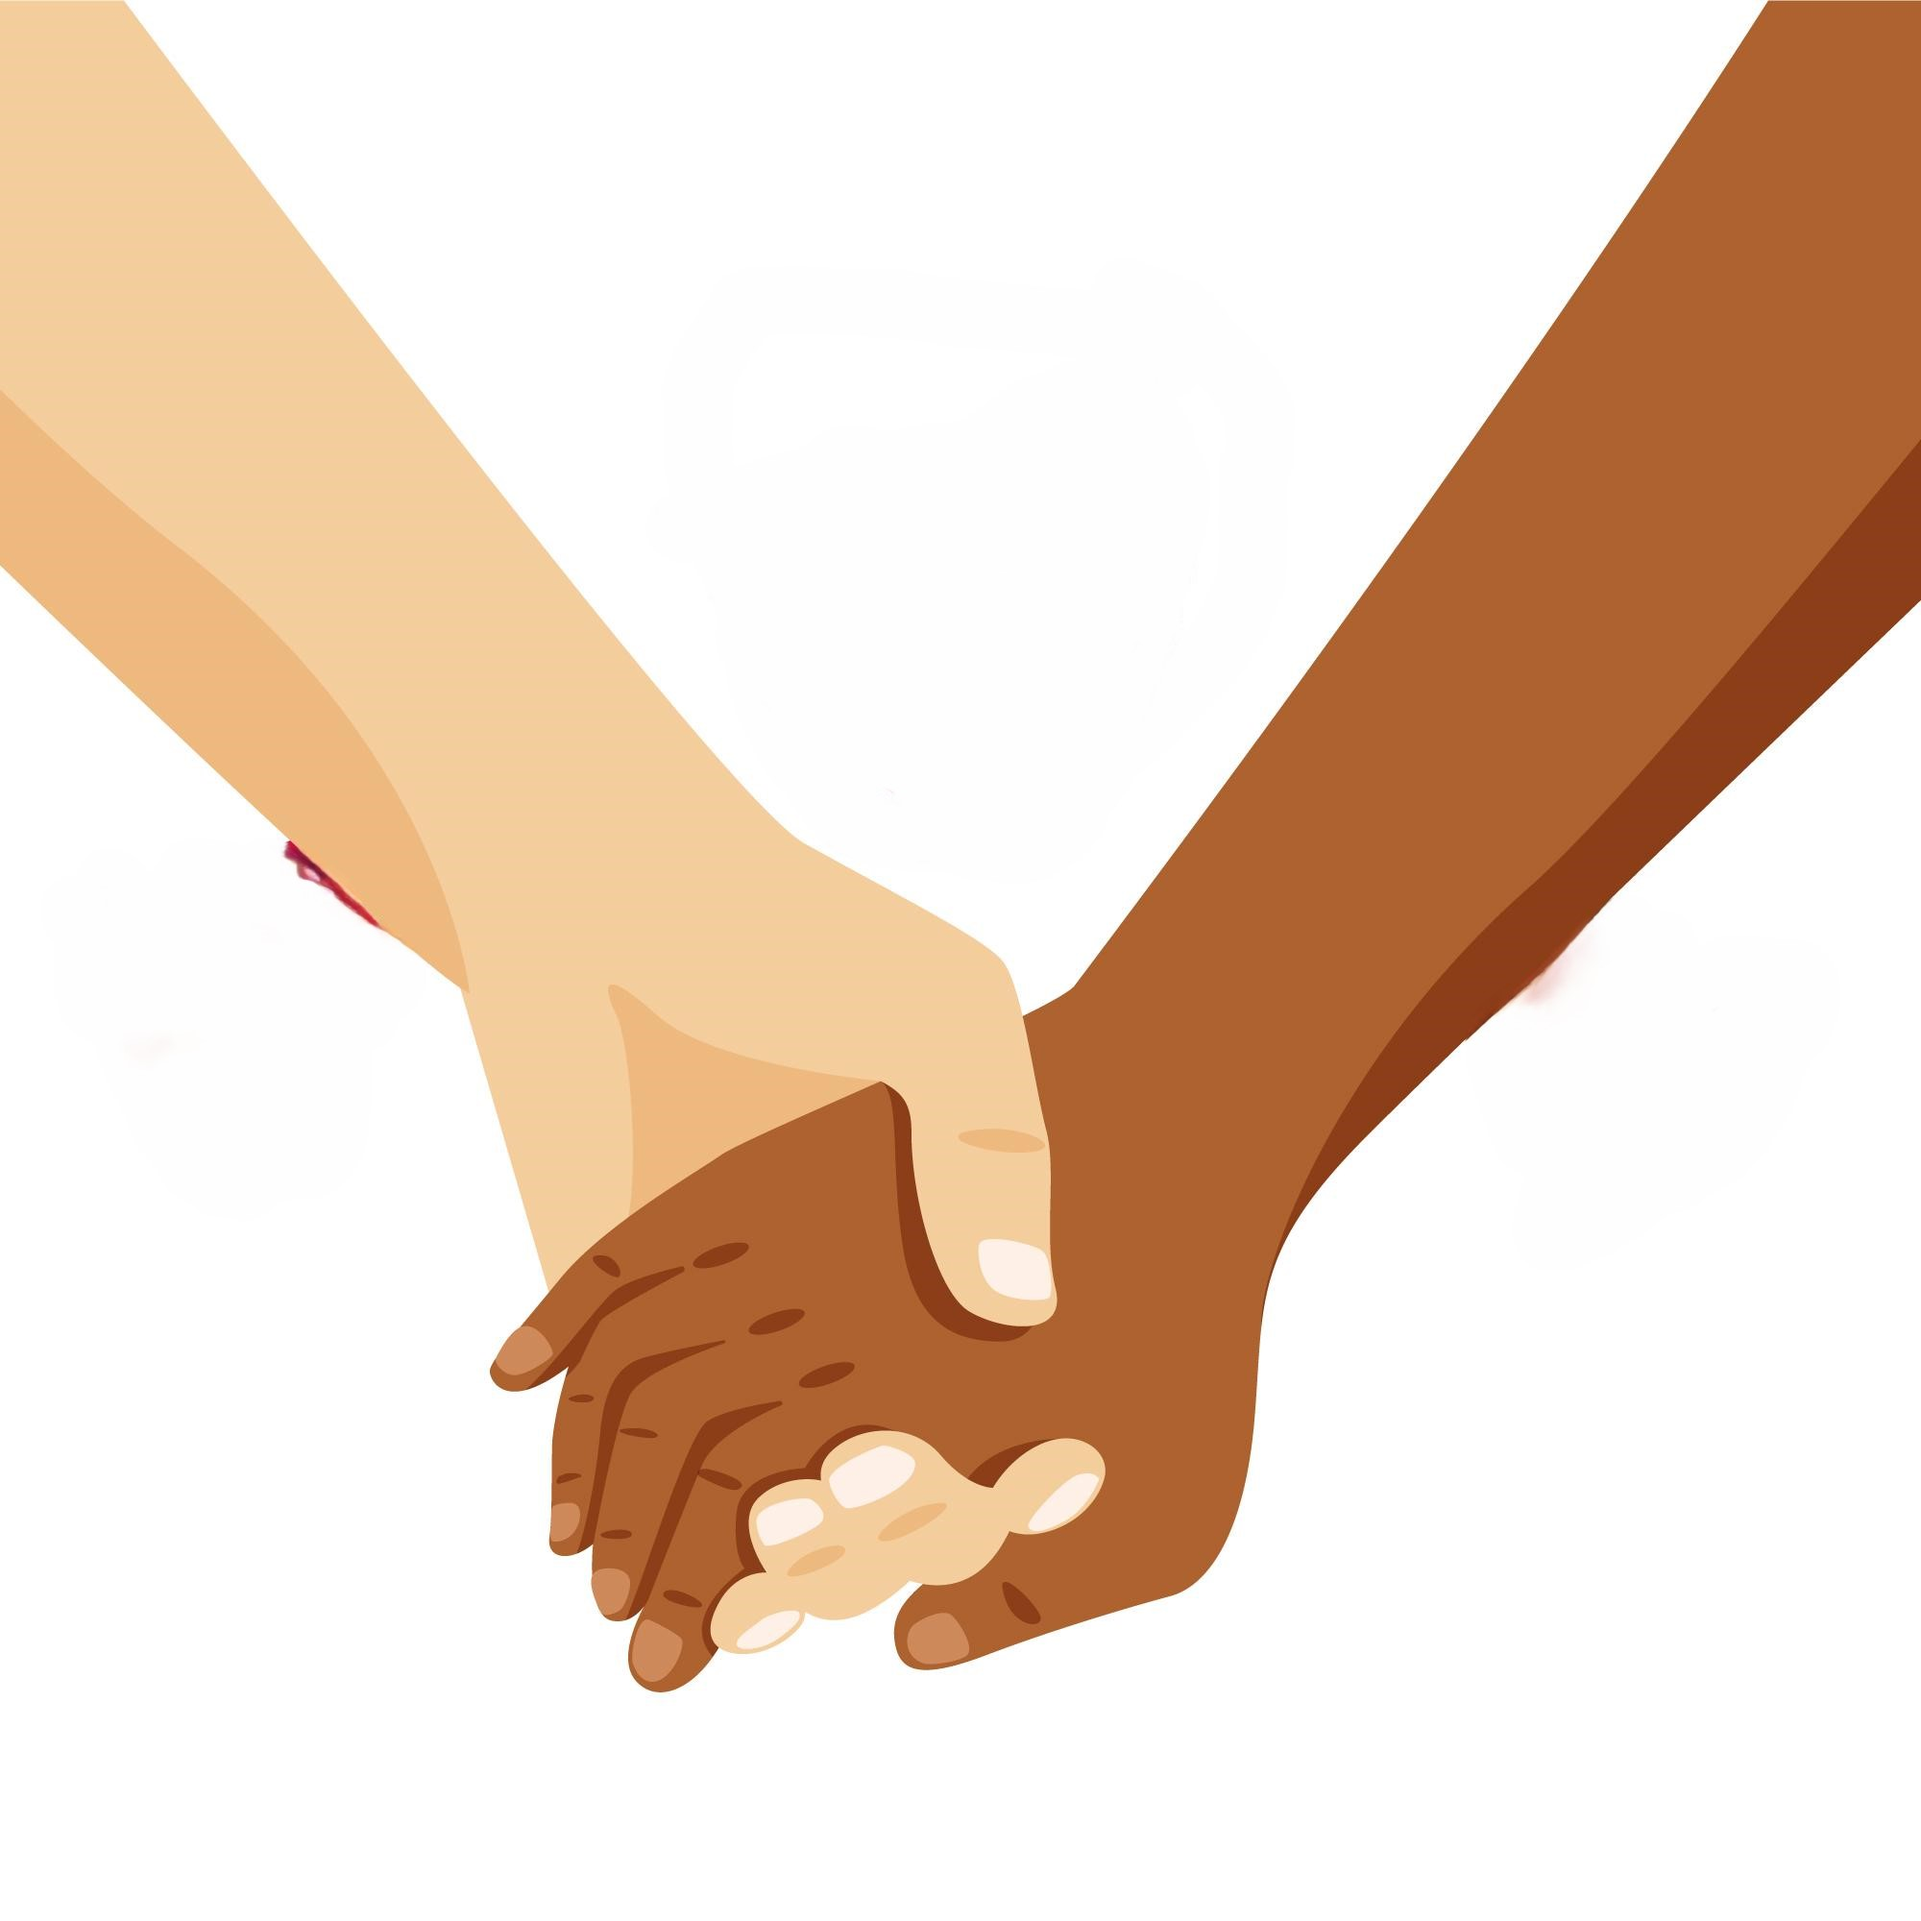
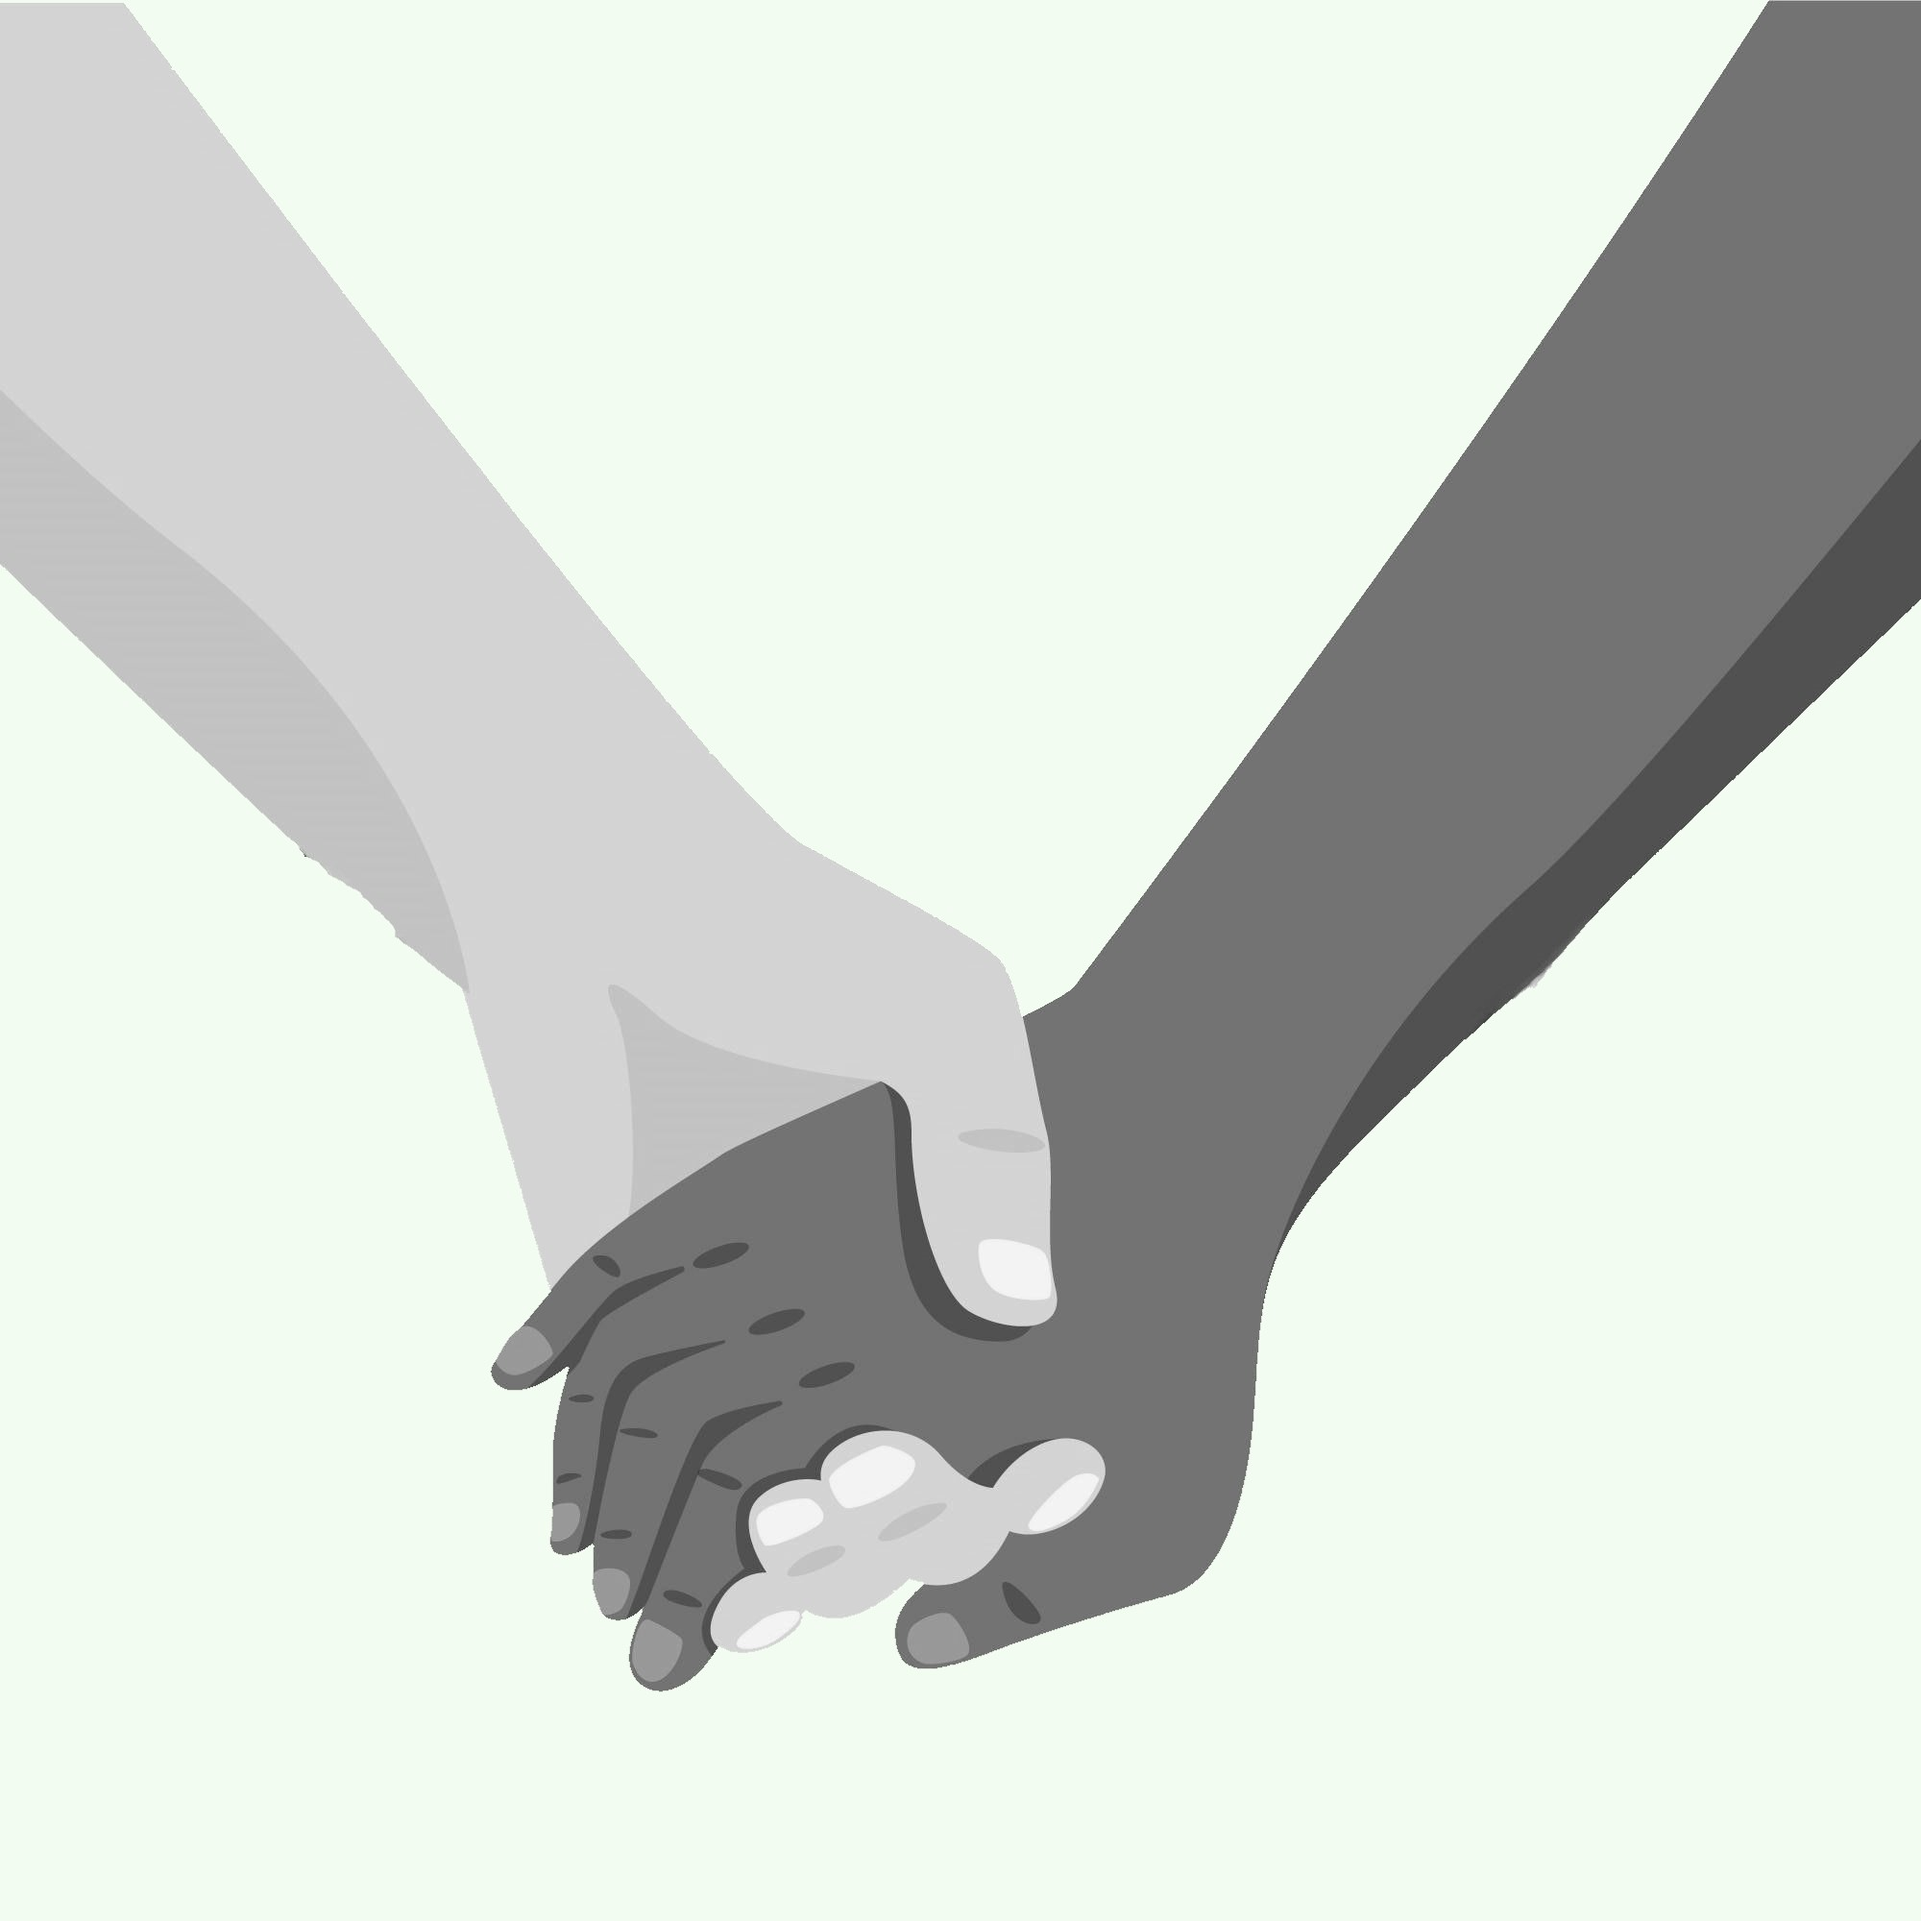
reworked colour scheme

diff --git a/assets/css/style.css b/assets/css/style.css
@@ -25,7 +25,7 @@ $midnight-green: rgba(14, 71, 73, 1); */
     left: 0;
     height: 100%;
     width: 100%;
-    background-color: rgba(255, 161, 161, 0.192);
+    background-color: rgba(179, 182, 227, 0.192);
 }
 
 
@@ -46,7 +46,7 @@ $midnight-green: rgba(14, 71, 73, 1); */
 .btn--help {
     color: rgba(243, 252, 240, 1);
     margin: 10px auto;
-    background-color: rgba(253, 130, 60, 0.8);
+    background-color: rgb(52, 129, 63);
     border-radius: 5px;
     padding: 5px;
     float: right;
@@ -62,7 +62,7 @@ $midnight-green: rgba(14, 71, 73, 1); */
 .btn--help.focus {
     color: rgba(243, 252, 240, 1);
     margin: 10px auto;
-    background-color: rgba(182, 91, 39, 0.8);
+    background-color: rgba(206, 245, 211, 1);
     border-radius: 5px;
     padding: 5px;
     float: right;
@@ -86,7 +86,7 @@ $midnight-green: rgba(14, 71, 73, 1); */
 }
 
 .blue-section-header {
-    background-color: rgb(253, 130, 60);
+    background-color: rgb(179, 182, 227);
     color: rgba(243, 252, 240, 1);
     height: fit-content;
     width: 100%;
@@ -130,7 +130,7 @@ $midnight-green: rgba(14, 71, 73, 1); */
 }
 
 .navbar-bg {
-    background-color: rgb(241, 228, 191);
+    background-color: #D8D5ED;
 }
 
 .navbar-bg a {
@@ -156,9 +156,9 @@ $midnight-green: rgba(14, 71, 73, 1); */
 }
 
 .hero-text {
-    background-color: rgba(252, 252, 240, 0.7);
+    background-color: rgba(241, 255, 232, 0.5);
     text-align: center;
-    border-radius: 5px;
+    border-radius: 15px;
     min-width: 80%;
     margin-left: auto;
     margin-right: auto;
@@ -170,13 +170,12 @@ $midnight-green: rgba(14, 71, 73, 1); */
 }
 
 .jumbotron {
-    height: 600px;
+    height: 85vh;
     width: 100%;
     padding-top: 32px;
     background: url(../images/duy-pham-Cecb0_8Hx-o-unsplash.jpg) no-repeat center center/cover;
     position: relative;
     margin-bottom: 0px;
-    min-height: 80vh;
 }
 
 
@@ -187,17 +186,17 @@ $midnight-green: rgba(14, 71, 73, 1); */
 
 .find-out {
     display: inline-block;
-    color: rgba(243, 252, 240, 1);
+    color: rgba(46, 31, 39, 1);
+    border: 1px solid rgba(46, 31, 39, 1);
     margin-left: 10px;
-    background-color: rgba(253, 130, 60, 0.8);
+    background-color: rgba(241, 255, 232, 1);
     border-radius: 5px;
     padding: 5px;
 }
 
 .find-out:hover {
-    color: rgba(46, 134, 171, 1);
-    ;
-    background-color: rgba(243, 252, 240, 0.6);
+    color: rgba(46, 31, 39, 1);
+    background-color: rgba(206, 245, 211, 1);
     text-decoration: none;
 }
 
@@ -205,9 +204,6 @@ $midnight-green: rgba(14, 71, 73, 1); */
 /*--------------- Here to help  */
 
 
-.help-image {
-    position: relative;
-}
 
 .help-image img {
     max-width: 100%;
@@ -240,10 +236,10 @@ $midnight-green: rgba(14, 71, 73, 1); */
 
 
 .help-card {
-    background-color: #FEE7D5;
+    background-color: rgba(243, 252, 240, 1);
     margin: 10px;
     border-radius: 15px;
-    border: 10px solid rgb(218, 162, 9);
+    border: 10px solid rgb(216, 213, 237);
     display: flex;
     flex-wrap: wrap;
     align-items: center;
@@ -333,6 +329,7 @@ $midnight-green: rgba(14, 71, 73, 1); */
 }
 
 
+
 /* .wave-container {  
     height: 40vh;
     background-color: #fad6d6;
@@ -380,18 +377,24 @@ $midnight-green: rgba(14, 71, 73, 1); */
         border: 10px solid rgb(242, 66, 54);
     }
 
+    #crisis-card .btn--help {
+        background-color: rgb(242, 66, 54);
+    }
+
     .nav-link {
         margin: 0 5px;
     }
 
-
+    .btn--help {
+        min-height: 58px;
+    }
 
 
 }
 
 
 
-
+/* 
 @media screen and (min-width:1200px) {
 
     .btn--help {
@@ -399,4 +402,4 @@ $midnight-green: rgba(14, 71, 73, 1); */
         min-width: 205px;
     }
 
-}
+} */

diff --git a/index.html b/index.html
@@ -76,7 +76,7 @@
                         </div>
                         <div class="col-12 col-md-8 col-lg-12 help-text">
                             <h3><i class="fa-solid fa-triangle-exclamation d-md-none help-icon"></i>  Need Help Immediately?</h3>
-                            <br>
+                            <hr>
                             <p>If you're in crisis, there are immediate resources available. Speak with a trained
                                 professional who can offer support, or guide to someone who can, no matter what you’re going through.</p>
                             <a href="https://www.mind.org.uk/information-support/guides-to-support-and-services/crisis-services/getting-help-in-a-crisis/"
@@ -90,11 +90,11 @@
 
                         <div class="col-12 col-md-4 col-lg-12 d-flex justify-content-center align-items-center">
                             <div class="help-image d-none d-md-block "><img src="assets/images/brain.jpg"
-                                    alt="A pair of holding hands"></div>
+                                    alt="A brain"></div>
                         </div>
                         <div class="col-12 col-md-8 col-lg-12 help-text">
                             <h3><i class="fa-solid fa-clipboard-list d-md-none help-icon"></i>  Take a Mental Health Check</h3>
-                            <br>
+                            <hr>
                             <p>Not sure where to start? Try one of our self-assessments to get a better
                                 understanding of
                                 how you’re feeling. These quizzes are confidential and can help guide your next
@@ -109,15 +109,14 @@
 
                     <div class="help-card col-lg-3 order-lg-3">
                             <div class="col-12 col-md-4 col-lg-12 d-flex justify-content-center align-items-center">
-                                <div class="help-image d-none d-md-block "><img src="assets/images/hands-orange.jpg"
+                                <div class="help-image d-none d-md-block "><img src="assets/images/holding hands.jpg"
                                         alt="A pair of holding hands"></div>
                             </div>
                             <div class="col-12 col-md-8 col-lg-12 help-text">
                                 <h3><i class="fa-solid fa-link d-md-none help-icon"></i>  Connect with a Therapist</h3>
-                                <br>
+                                <hr>
                                 <p>Ready to talk? Find a licensed therapist who can help you navigate life’s challenges.
-                                    Whether you're dealing with anxiety, depression, or just need someone to listen,
-                                    you’re
+                                    Whatever you're dealing with, or just need someone to listen, you’re
                                     not alone.</p>
                                 <a href="https://www.betterhelp.com/" class="btn btn-info btn--help" role="button" target="_blank"
                                     aria-label="Find a therapist at Betterhelp"> Find a therapist here. </a>
